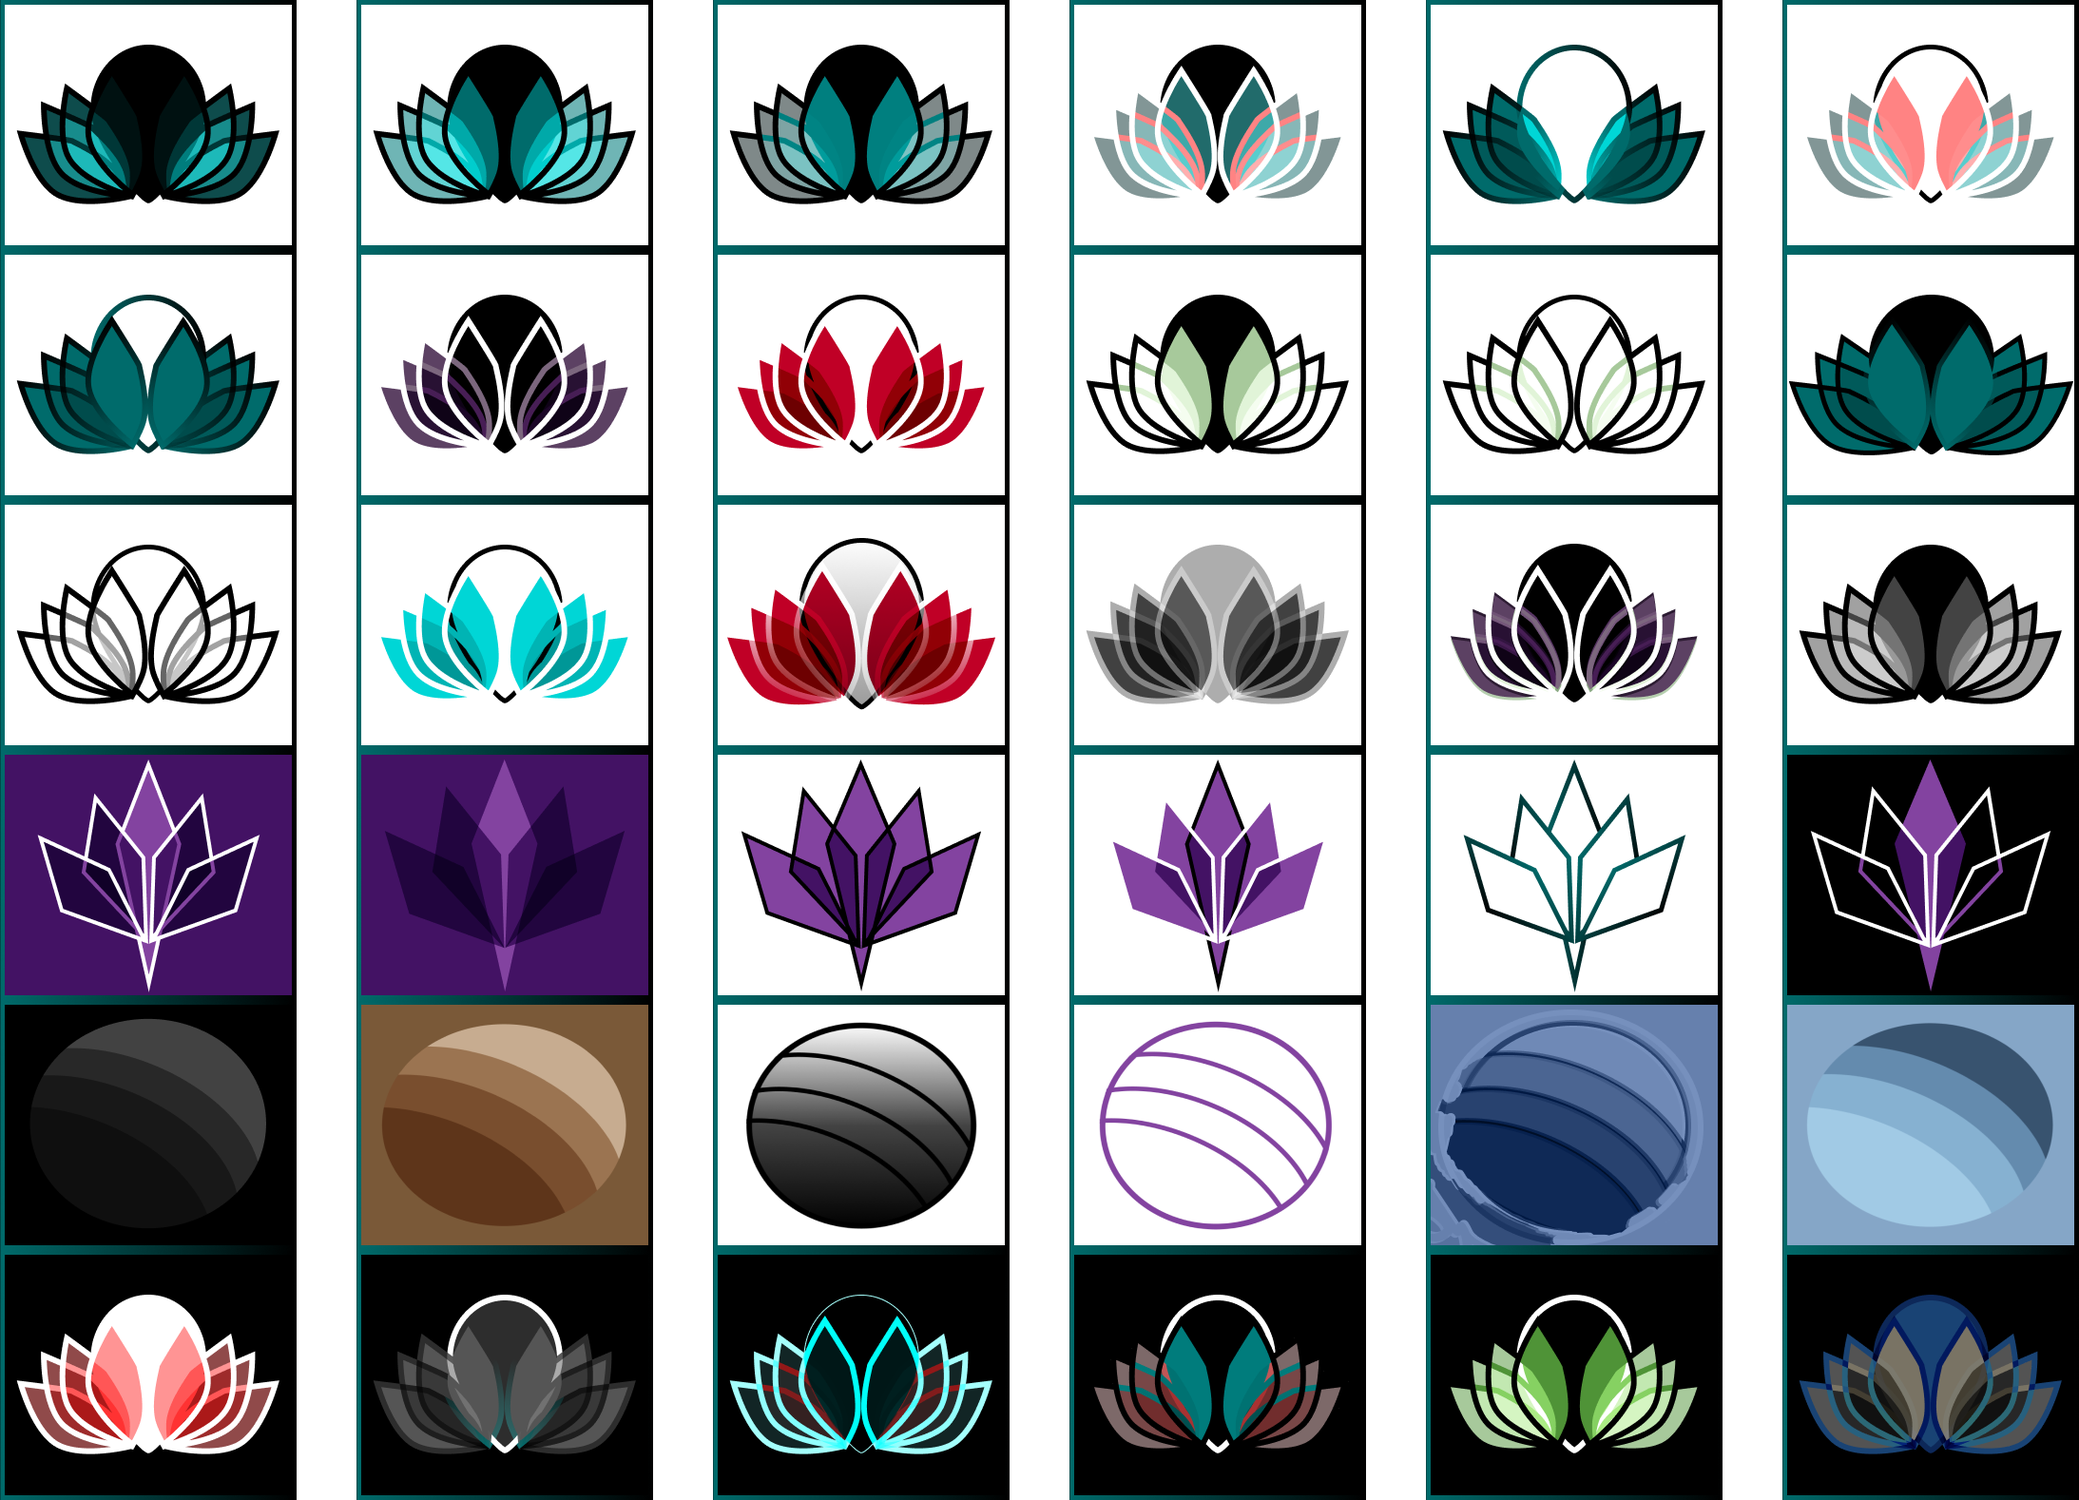
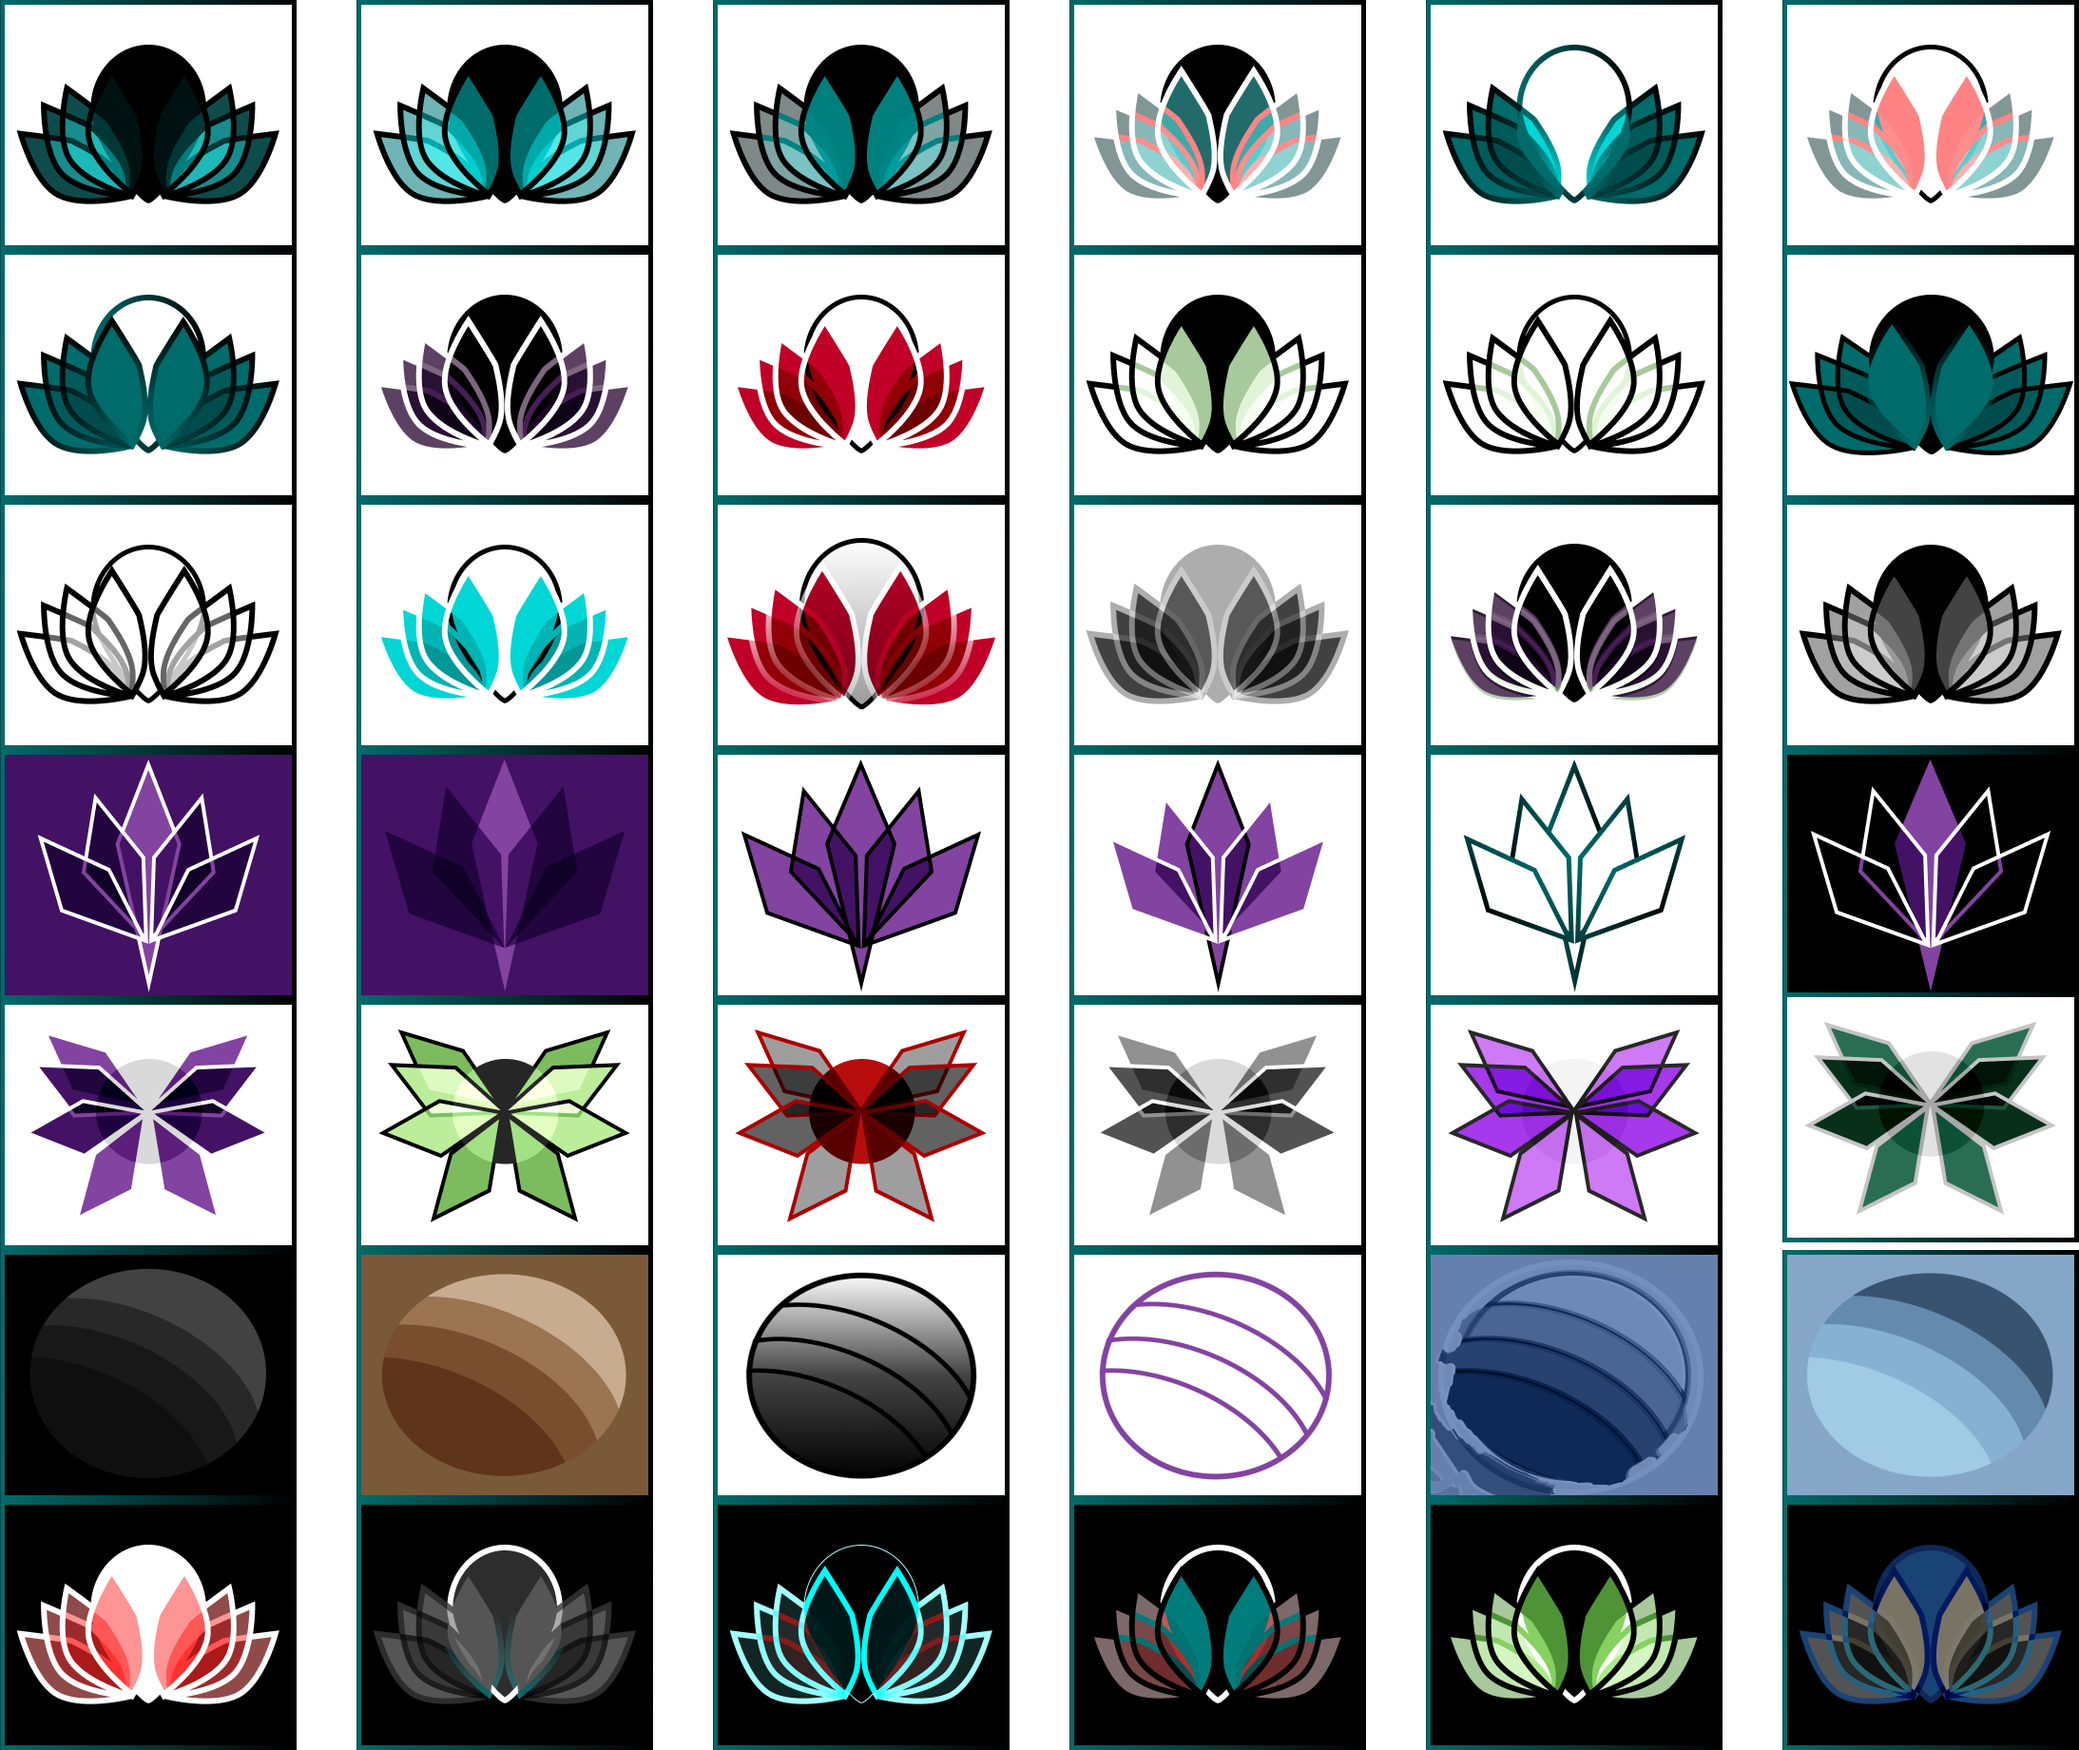
още дизайни

diff --git a/design.html b/design.html
@@ -92,52 +92,57 @@
         <div class="row">
           <div class="col-lg-4 col-md-4 col-sm-6">
             <a href="Images/Onyx1.png" target="_blank" class="designImageLink">
-              <img src="Images/Onyx1.png" id="designImage" />
+              <img src="Images/Onyx1.png" class="designImage" />
             </a>
           </div>
           <div class="col-lg-4 col-md-4 col-sm-6">
             <a href="Images/Onyx2.png" target="_blank" class="designImageLink">
-              <img src="Images/Onyx2.png" id="designImage" />
+              <img src="Images/Onyx2.png" class="designImage" />
             </a>
           </div>
           <div class="col-lg-4 col-md-4 col-sm-6">
             <a href="Images/Onyx3.png" target="_blank" class="designImageLink"
-              ><img src="Images/Onyx3.png" id="designImage"
+              ><img src="Images/Onyx3.png" class="designImage"
             /></a>
           </div>
           <div class="col-lg-4 col-md-4 col-sm-6">
             <a href="Images/Indigo1.png" target="_blank" class="designImageLink"
-              ><img src="Images/Indigo1.png" id="designImage"
+              ><img src="Images/Indigo1.png" class="designImage"
             /></a>
           </div>
           <div class="col-lg-4 col-md-4 col-sm-6">
             <a href="Images/Indigo2.png" target="_blank" class="designImageLink"
-              ><img src="Images/Indigo2.png" id="designImage"
+              ><img src="Images/Indigo2.png" class="designImage"
             /></a>
           </div>
           <div class="col-lg-4 col-md-4 col-sm-6">
             <a href="Images/Indigo3.png" target="_blank" class="designImageLink"
-              ><img src="Images/Indigo3.png" id="designImage"
+              ><img src="Images/Indigo3.png" class="designImage"
             /></a>
           </div>
           <div class="col-lg-4 col-md-4 col-sm-6">
             <a href="Images/Mansor1.png" target="_blank" class="designImageLink"
-              ><img src="Images/Mansor1.png" id="designImage"
+              ><img src="Images/Mansor1.png" class="designImage"
             /></a>
           </div>
           <div class="col-lg-4 col-md-4 col-sm-6">
             <a href="Images/Mansor2.png" target="_blank" class="designImageLink"
-              ><img src="Images/Mansor2.png" id="designImage"
+              ><img src="Images/Mansor2.png" class="designImage"
             /></a>
           </div>
           <div class="col-lg-4 col-md-4 col-sm-6">
             <a href="Images/Mansor3.png" target="_blank" class="designImageLink"
-              ><img src="Images/Mansor3.png" id="designImage"
+              ><img src="Images/Mansor3.png" class="designImage"
             /></a>
           </div>
           <div class="row mt-5 allDesigns">
             <a href="Images/Designs.png" target="_blank">
-              <img src="Images/Designs.png" id="designImage" />
+              <img src="Images/Designs.png" class="designImage" />
+            </a>
+          </div>
+          <div class="row mt-5 allDesigns">
+            <a href="Images/Designs2.jpg" target="_blank">
+              <img src="Images/Designs2.jpg" class="designImageDark" />
             </a>
           </div>
         </div>

diff --git a/styles.css b/styles.css
@@ -290,17 +290,19 @@ body::before {
 /* Designs */
 .designsContainer {
   display: grid;
-  /* gap: 10px; */
   grid-template-columns: auto auto auto;
   width: 100%;
   height: auto;
 }
-#designImage {
+.designImage {
   width: 100%;
   height: auto;
   outline: 5px solid white;
-  /* min-width: 6.3em; */
-  /* min-width: 40px; */
+}
+.designImageDark {
+  width: 100%;
+  height: auto;
+  outline: 5px solid black;
 }
 .desings {
   width: 100%;
@@ -312,12 +314,6 @@ body::before {
 .designImageLink:hover {
   opacity: 0.6;
 }
-#designImage {
-  width: 100%;
-  height: auto;
-  outline: 5px solid white;
-}
-
 .allDesigns {
   width: 100%;
   height: auto;
